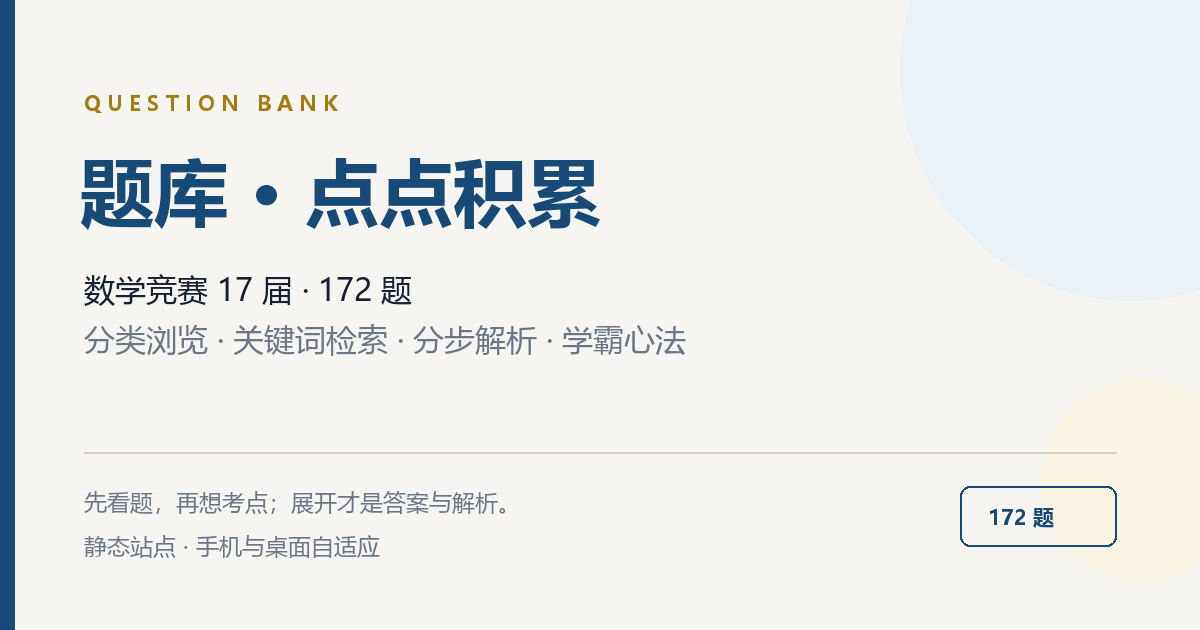
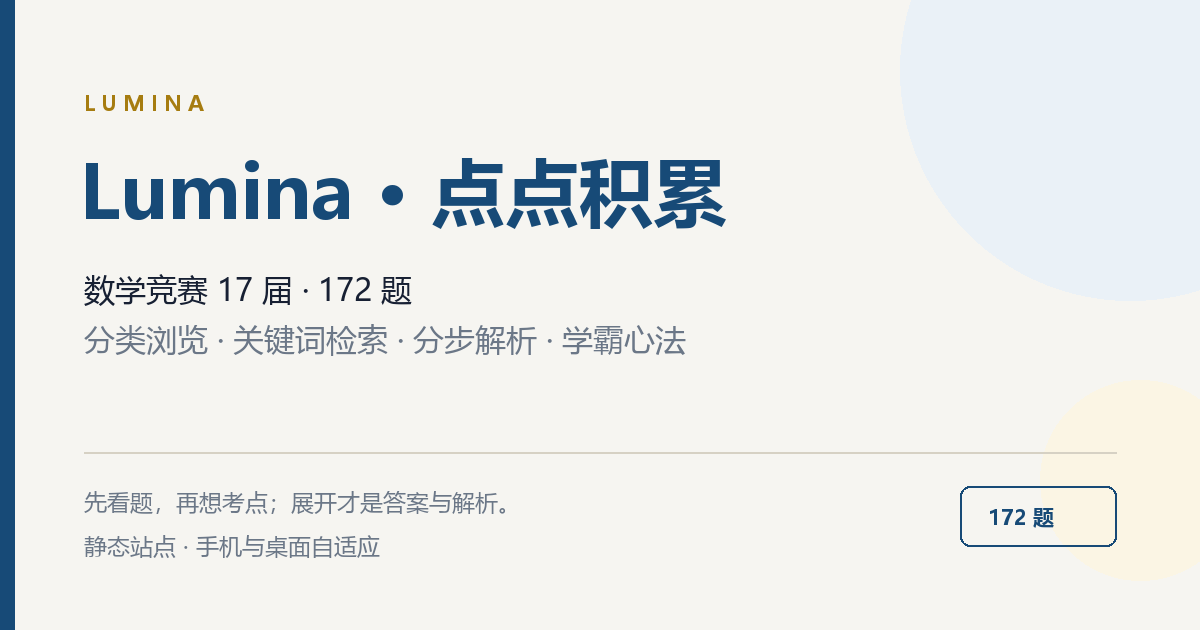
rename: question-bank -> Lumina

Changed region(s): [[0.0617, 0.2413, 0.6167, 0.3619], [0.0617, 0.1508, 0.2775, 0.181]]

diff --git a/src/components/Layout.jsx b/src/components/Layout.jsx
@@ -26,9 +26,9 @@ export default function Layout() {
       <header className="topbar">
         <div className="topbar-inner">
           <Link to="/" className="brand">
-            <span className="brand-mark">题</span>
+            <span className="brand-mark">L</span>
             <span>
-              <span style={{ display: 'block', lineHeight: 1.15 }}>题库</span>
+              <span style={{ display: 'block', lineHeight: 1.15 }}>Lumina</span>
               <span className="brand-sub">点点积累</span>
             </span>
           </Link>
@@ -67,7 +67,7 @@ export default function Layout() {
 
       <footer style={{ borderTop: '1px solid var(--line)', marginTop: 40 }}>
         <div style={{ maxWidth: 1240, margin: '0 auto', padding: '22px 20px 34px', display: 'flex', flexWrap: 'wrap', gap: 10, justifyContent: 'space-between', color: 'var(--muted)', fontSize: 12.5 }}>
-          <span>题库 · 点点积累，照亮备考长路</span>
+          <span>Lumina · 点点积累，照亮备考长路</span>
           <span>静态站点 · Cloudflare Pages · 数据本地存储</span>
         </div>
       </footer>

diff --git a/index.html b/index.html
@@ -4,13 +4,13 @@
     <meta charset="UTF-8" />
     <meta name="viewport" content="width=device-width, initial-scale=1, viewport-fit=cover" />
     <meta name="theme-color" content="#174A77" />
-    <meta name="description" content="多科目题库 · 数学竞赛真题详解、分类浏览、检索与精讲" />
+    <meta name="description" content="Lumina · 多科目题库：数学竞赛真题详解、分类浏览、检索与精讲" />
     <meta property="og:type" content="website" />
-    <meta property="og:title" content="题库 · 点点积累" />
-    <meta property="og:description" content="数学竞赛 17 届 · 172 题 · 分类浏览、检索、分步解析与心法" />
+    <meta property="og:title" content="Lumina · 点点积累" />
+    <meta property="og:description" content="数学竞赛 17 届 · 172 题 · 分类浏览、分步解析与心法" />
     <meta property="og:image" content="/og.png" />
     <meta name="twitter:card" content="summary_large_image" />
-    <title>题库 · 点点积累</title>
+    <title>Lumina · 点点积累</title>
   </head>
   <body>
     <div id="root"></div>

diff --git a/src/pages/Home.jsx b/src/pages/Home.jsx
@@ -19,7 +19,7 @@ export default function Home() {
     <div className="shell" style={{ gridTemplateColumns: 'minmax(0, 1fr)' }}>
       <main className="main" style={{ maxWidth: 1040, margin: '0 auto', width: '100%' }}>
         <section className="hero">
-          <div className="eyebrow">Question bank · 点点积累</div>
+          <div className="eyebrow">Lumina · 点点积累</div>
           <h1>
             把每一道题，
             <br />

diff --git a/src/styles.css b/src/styles.css
@@ -106,8 +106,9 @@ button { font: inherit; color: inherit; }
   color: #fff;
   display: grid;
   place-items: center;
-  font-family: var(--font-serif);
-  font-size: 16px;
+  font-family: var(--font-sans);
+  font-size: 17px;
+  font-weight: 700;
   line-height: 1;
 }
 .brand-sub {

diff --git a/scripts/make-og.py b/scripts/make-og.py
@@ -21,8 +21,8 @@ mid = ImageFont.truetype("C:/Windows/Fonts/msyh.ttc", 31)
 small = ImageFont.truetype("C:/Windows/Fonts/msyh.ttc", 23)
 tag = ImageFont.truetype("C:/Windows/Fonts/msyhbd.ttc", 21)
 
-d.text((84, 88), "Q U E S T I O N   B A N K", font=tag, fill=GOLD)
-d.text((80, 140), "题库 · 点点积累", font=bold, fill=BRAND)
+d.text((84, 88), "L U M I N A", font=tag, fill=GOLD)
+d.text((80, 140), "Lumina · 点点积累", font=bold, fill=BRAND)
 d.text((84, 268), "数学竞赛 17 届 · 172 题", font=mid, fill=INK)
 d.text((84, 318), "分类浏览 · 关键词检索 · 分步解析 · 学霸心法", font=mid, fill=MUTED)
 

diff --git a/docs/DEPLOY.md b/docs/DEPLOY.md
@@ -15,12 +15,12 @@
 ### 1. 推送仓库
 
 ```bash
-cd E:/Project/question-bank
+cd E:/Project/Lumina
 git init
 git add .
 git commit -m "init question bank"
 git branch -M main
-git remote add origin https://github.com/<你的用户名>/question-bank.git
+git remote add origin https://github.com/<你的用户名>/Lumina.git
 git push -u origin main
 ```
 
@@ -29,7 +29,7 @@ git push -u origin main
 ### 2. 创建 Pages 项目
 
 1. 登录 Cloudflare Dashboard → **Workers & Pages** → **Create** → **Pages** → **Connect to Git**。
-2. 授权并选择 `question-bank` 仓库。
+2. 授权并选择 `Lumina` 仓库。
 3. 构建配置：
 
 | 配置项 | 值 |
@@ -53,7 +53,7 @@ git push -u origin main
 部署成功后会得到：
 
 ```
-https://question-bank-xxx.pages.dev
+https://lumina-xxx.pages.dev
 ```
 
 这个地址可以直接发到微信/飞书/QQ，手机浏览器打开即用，**无需备案**。
@@ -65,7 +65,7 @@ https://question-bank-xxx.pages.dev
 ```bash
 npm i -D wrangler
 npm run build
-npx wrangler pages deploy dist --project-name question-bank
+npx wrangler pages deploy dist --project-name lumina
 ```
 
 首次会打开浏览器登录 Cloudflare；之后每次更新只要重新 `build` + `deploy`。
@@ -184,7 +184,7 @@ Git 集成会自动重新构建并部署，1–2 分钟后线上生效。
 `index.html` 已加入：
 
 ```html
-<meta property="og:title" content="题库 · 点点积累" />
+<meta property="og:title" content="Lumina · 点点积累" />
 <meta property="og:description" content="数学竞赛 17 届 · 172 题 · 分类浏览、检索、分步解析与心法" />
 <meta property="og:image" content="/og.png" />
 ```

diff --git a/README.md b/README.md
@@ -1,4 +1,4 @@
-# 题库 · 点点积累
+# Lumina · 点点积累
 
 一个可扩展的多科目题库网站。纯静态、无后端，构建时预渲染公式，部署在 Cloudflare Pages。
 
@@ -27,7 +27,7 @@ npm run check      # 校验内容源
 ## 目录结构
 
 ```
-question-bank/
+Lumina/
 ├── content/                     # 内容源（唯一需要编辑的地方）
 │   ├── subjects.json            # 科目 / 题库 / 分类注册表
 │   └── math/competition/        # 数学竞赛初赛
